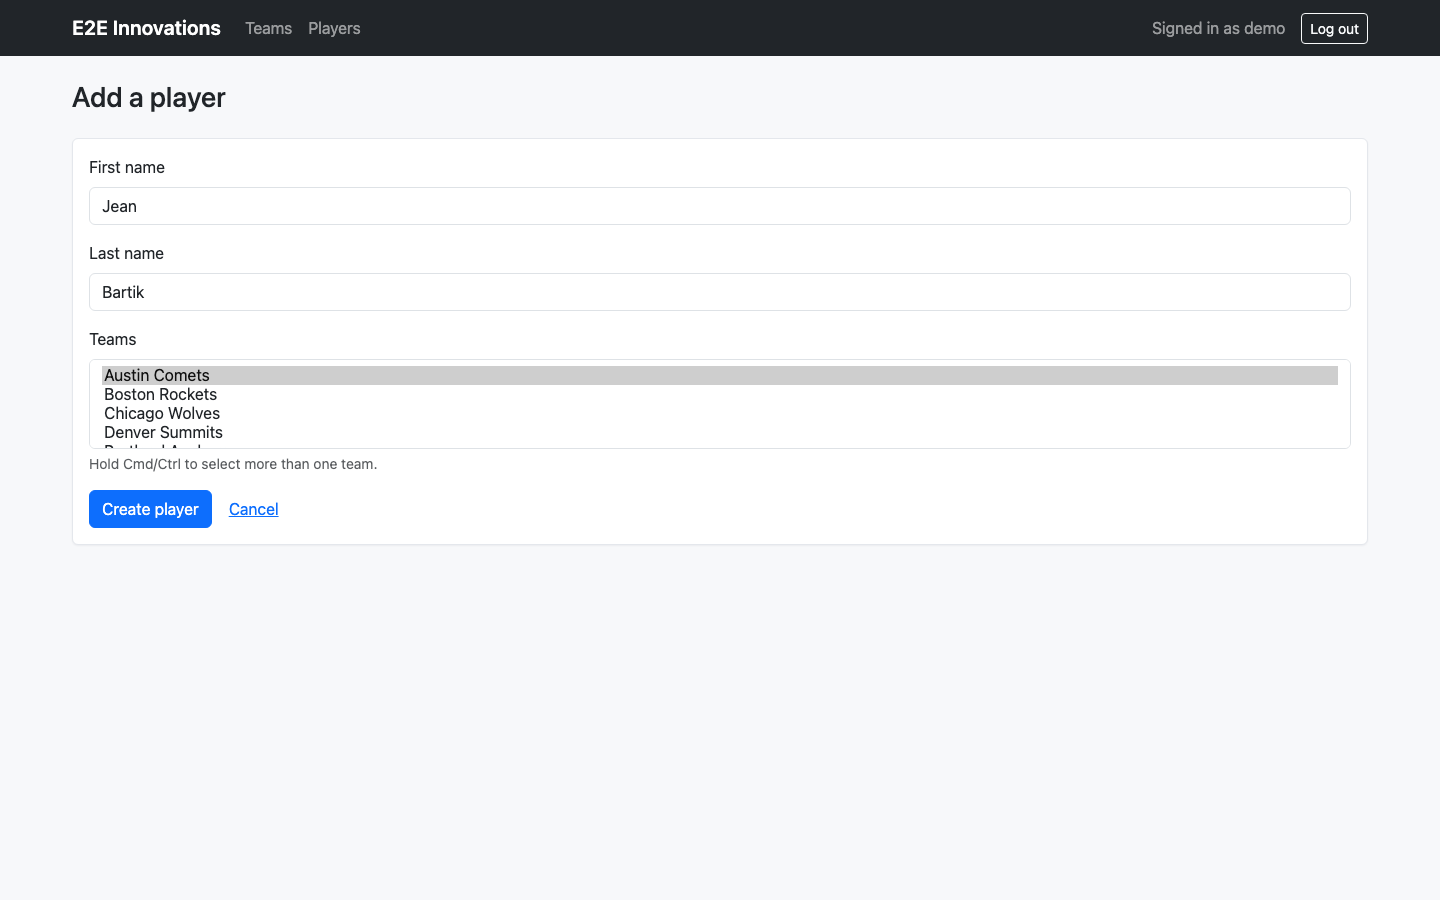
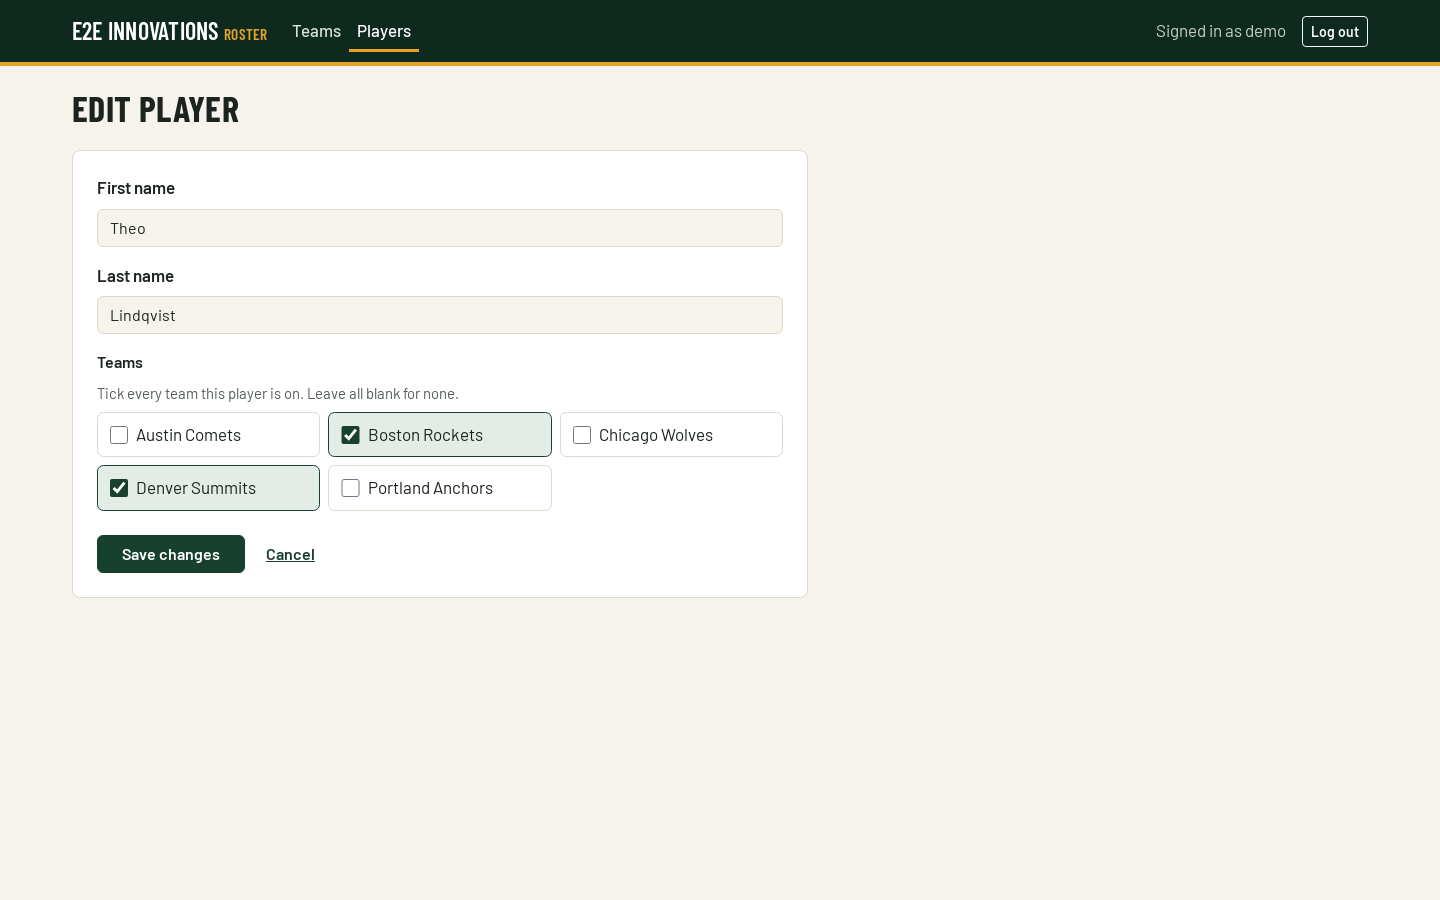
Rewrite the README around Compose and refresh the screenshots
The README now leads with a verified Docker Compose path (up, seed,
log in), documents every environment variable in a table, adds a
request flow diagram and the health probe response, and drops the
"container setup has had less testing" caveat now that it has been
run from scratch. Screenshots are retaken from the restyled UI with
the invented seed data, desktop and phone. The benchmark is rerun on
Django 5.2 in a python:3.12-slim container.

Also adds an MIT LICENSE (none existed) and removes docs/test-run.txt,
a stale transcript from the Django 4.2 setup.

Changed region(s): [[0.0, 0.0, 1.0, 0.6533]]

diff --git a/README.md b/README.md
@@ -1,65 +1,122 @@
 # Sports Roster
 
-A Django app for managing sports teams and their players. Teams have a city and a mascot, players have a name, and a player can be on more than one team's roster. Everything sits behind a login. This was a coding exercise for E2E Innovations (the name in the navbar), so "E2E" refers to the client, not end-to-end testing.
+A Django app for managing sports teams and their players. A team is a city plus a mascot, a player has a first and last name, and one player can sit on several teams' rosters at once. Everything sits behind a login.
+
+This was a coding exercise for E2E Innovations (the name in the navbar), so "E2E" refers to the client, not end-to-end testing.
 
 ![Team list](docs/screenshots/team-list.png)
 
-What you can do:
+## What it does
 
 - Create, edit and delete teams and players
-- Assign players to multiple teams and see each team's roster
-- Sign up, log in and log out
-- Browse paginated team and player lists
+- Put a player on any number of teams by ticking checkboxes, and see each team's roster
+- An overview page with team and player totals and how many players have no team yet
+- Sign up, log in and log out (logout is POST-only)
+- Paginated team and player lists, with a confirmation message after every save or delete
+- A `/healthz/` endpoint that also checks the database, used by the container healthcheck
 
-It uses Django 5.2 LTS on Python 3.12 with class-based views, server-rendered Bootstrap 5 templates and SQLite. Gunicorn serves it in the container.
+Team names are unique regardless of case, so "boston rockets" is rejected when "Boston Rockets" already exists.
 
-## Getting started
+It runs on Django 5.2 LTS and Python 3.12, with class-based views, server-rendered Bootstrap 5 templates, SQLite, and Gunicorn in the container.
+
+| Players | Editing a player | On a phone |
+| --- | --- | --- |
+| ![Player list](docs/screenshots/player-list.png) | ![Player form](docs/screenshots/player-form.png) | ![Player list on a phone](docs/screenshots/mobile-player-list.png) |
+| **Overview** | **Team roster** | **Player form on a phone** |
+| ![Overview with totals](docs/screenshots/overview.png) | ![Boston Rockets roster](docs/screenshots/team-detail.png) | ![Player form on a phone](docs/screenshots/mobile-player-form.png) |
+
+## Running it with Docker Compose
+
+This is the shortest path and needs only Docker:
 
 ```bash
-python3 -m venv .venv && source .venv/bin/activate
+export DJANGO_SECRET_KEY="$(python3 -c 'import secrets; print(secrets.token_urlsafe(50))')"
+docker compose up --build -d
+docker compose exec web python manage.py seed_demo_data
+```
+
+Open http://localhost:8500/ and log in as `demo` / `demo-password-123`. The seed command creates five teams, ten players with invented names, and that user. Running it again changes nothing.
+
+The container runs migrations on start and keeps the SQLite file on the `sqlite-data` volume, so data survives `docker compose down`. Add `-v` to wipe it. To use another port, set `WEB_PORT` before `up`.
+
+Compose refuses to start without `DJANGO_SECRET_KEY`. You can also put it in a `.env` file next to `docker-compose.yml`; `.env.example` lists every variable.
+
+The health probe needs no login:
+
+```bash
+curl -s http://localhost:8500/healthz/
+```
+
+```json
+{"status": "ok", "database": "ok"}
+```
+
+## Running it with a local Python
+
+```bash
+python3.12 -m venv .venv && source .venv/bin/activate
 pip install -r requirements.txt
 
-export DJANGO_SECRET_KEY="$(python -c 'from django.core.management.utils import get_random_secret_key as k; print(k())')"
+export DJANGO_SECRET_KEY="$(python -c 'import secrets; print(secrets.token_urlsafe(50))')"
 python manage.py migrate
 python manage.py seed_demo_data
 python manage.py runserver 127.0.0.1:8500
 ```
 
-Then open http://127.0.0.1:8500/ and log in as `demo` / `demo-password-123`. The seed command creates a few teams and players along with that user.
-
-`DJANGO_SECRET_KEY` is required. With `DJANGO_DEBUG` off the app won't start without it.
-
-There is also a `Dockerfile` and `docker-compose.yml`. With the secret key exported, `docker compose up --build` should serve the app on http://localhost:8500/. The container setup has had less testing than the local run.
+With `DJANGO_DEBUG=1` the app falls back to a development key and the export can be skipped. With debug off, which is the default, it won't start without one.
 
 ### Configuration
 
-Settings come from environment variables (see `.env.example`):
+All settings come from environment variables:
 
-- `DJANGO_SECRET_KEY` (required)
-- `DJANGO_DEBUG`, default `0`
-- `DJANGO_ALLOWED_HOSTS`, default `localhost,127.0.0.1,[::1]`
-- `DJANGO_CSRF_TRUSTED_ORIGINS`
-- `DJANGO_SECURE_SSL`, turns on HTTPS redirect, secure cookies and HSTS
-- `DJANGO_DB_PATH`, location of the SQLite file
-- `DJANGO_LOG_LEVEL`, default `INFO`
-- `SPORTS_PAGE_SIZE`, default `25`
+| Variable | Default | Purpose |
+| --- | --- | --- |
+| `DJANGO_SECRET_KEY` | none | Required unless `DJANGO_DEBUG=1` |
+| `DJANGO_DEBUG` | `0` | Debug mode |
+| `DJANGO_ALLOWED_HOSTS` | `localhost,127.0.0.1,[::1]` | Comma-separated host names |
+| `DJANGO_CSRF_TRUSTED_ORIGINS` | empty | Needed when the app sits behind a proxy on another origin |
+| `DJANGO_SECURE_SSL` | `0` | HTTPS redirect, secure cookies and HSTS |
+| `DJANGO_DB_PATH` | `db.sqlite3` | SQLite file location (`/data/db.sqlite3` in the image) |
+| `DJANGO_LOG_LEVEL` | `INFO` | Root log level |
+| `SPORTS_PAGE_SIZE` | `25` | Rows per page on the lists |
+| `WEB_PORT` | `8500` | Host port for Compose |
+| `GUNICORN_WORKERS` | `3` | Worker count in the container |
 
-## Tests
+## Tests and lint
 
 ```bash
 pip install -r requirements-dev.txt
 pytest
-ruff check .
+ruff check . && ruff format --check .
 ```
 
-`pytest` runs against `sportsapp/settings_test.py`, which supplies a throwaway key, so nothing needs exporting first. The tests cover models, auth, views, settings and query counts.
+`pytest` uses `sportsapp/settings_test.py`, which supplies a throwaway key, so there is nothing to export first. The 65 tests cover models and constraints, auth and redirects, every view, the seed command, settings parsing, the error pages and query counts.
 
-## Code layout notes
+## How it is put together
 
-Views in `sports/views.py` stay thin and get their querysets from `sports/selectors.py`, which handles prefetching and annotations. This keeps the player list at a fixed number of queries no matter how many rows there are. `scripts/benchmark_roster.py` compares it against a naive queryset, and a sample run is saved in [docs/benchmark.txt](docs/benchmark.txt).
+```mermaid
+flowchart LR
+    Browser -->|HTTP| Gunicorn
+    Gunicorn --> URLs[sports/urls.py]
+    URLs --> Views[sports/views.py<br/>thin class-based views]
+    Views --> Selectors[sports/selectors.py<br/>prefetch and annotate]
+    Selectors --> Models[(Team / Player<br/>SQLite)]
+    Views --> Templates[templates/sports/*.html]
+```
+
+- Views stay thin. They name a template and get their querysets from `sports/selectors.py`, which owns the prefetching and the aggregate counts. The player list costs the same number of queries for 10 rows or 1,000, and `sports/tests/test_performance.py` asserts that.
+- `scripts/benchmark_roster.py` compares the selector against a naive queryset. A run inside a `python:3.12-slim` container is saved in [docs/benchmark.txt](docs/benchmark.txt): at 1,000 players the naive version issues 1,001 queries against the selector's 2.
+- The player/team link is a plain many-to-many with `related_name='players'`, so templates read `team.players`.
+- The 500 page renders without the request context. If the database is what failed, the error page doesn't need it.
+- Styling is a single `<style>` block in `base.html` on top of Bootstrap from a CDN. The app has no static files of its own, so Gunicorn needs no static file server.
 
 ## Limitations
 
-- Any logged-in user can edit or delete anything, there are no roles.
-- Signup is open with no email verification.
-- No search, just pagination.
+- Any logged-in user can edit or delete anything. There are no roles.
+- Signup is open, with no email verification.
+- No search, only pagination.
+- Bootstrap and the Google Fonts load from CDNs, so a fully offline machine gets unstyled pages.
+
+## License
+
+MIT, see [LICENSE](LICENSE).
